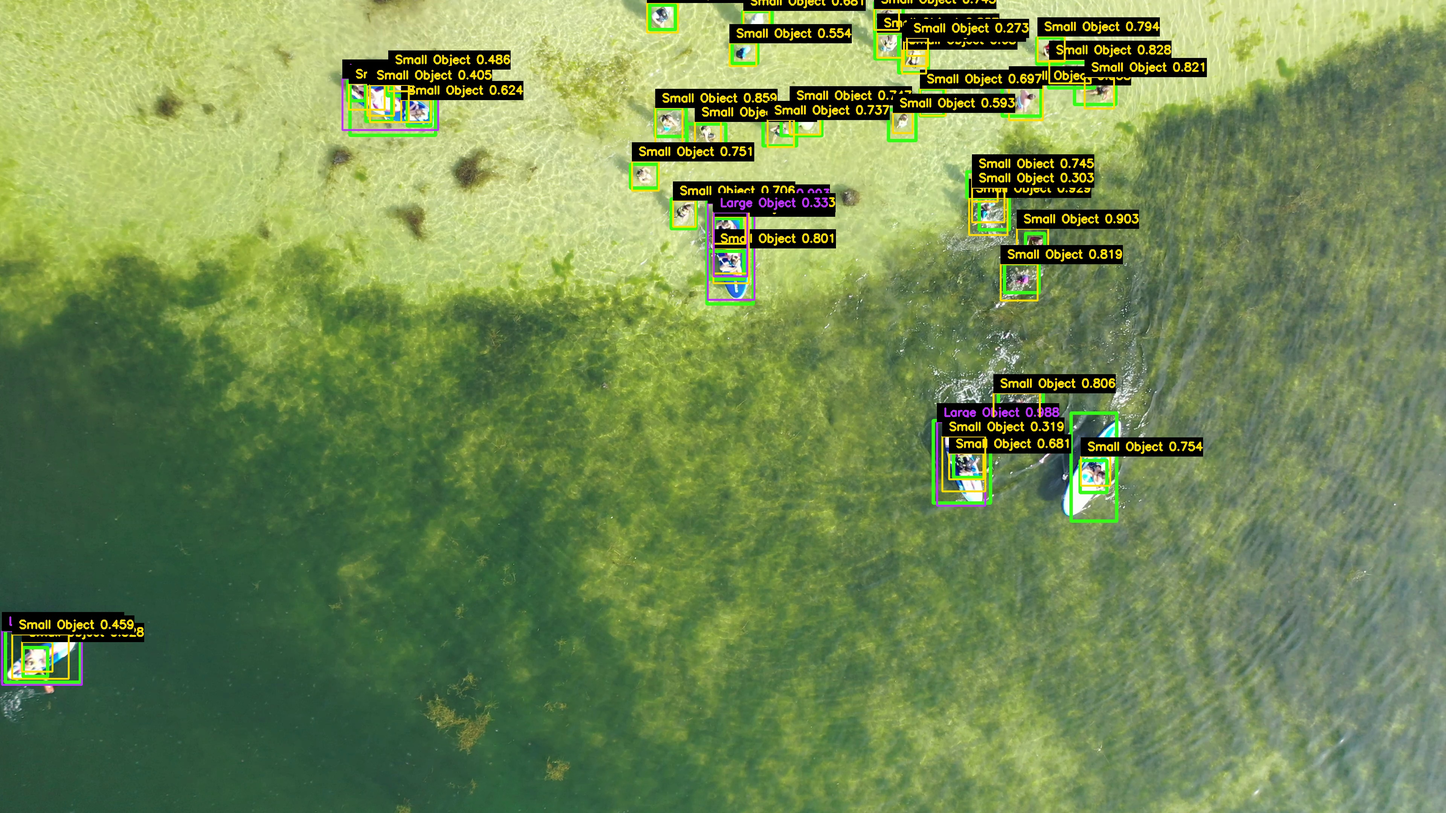
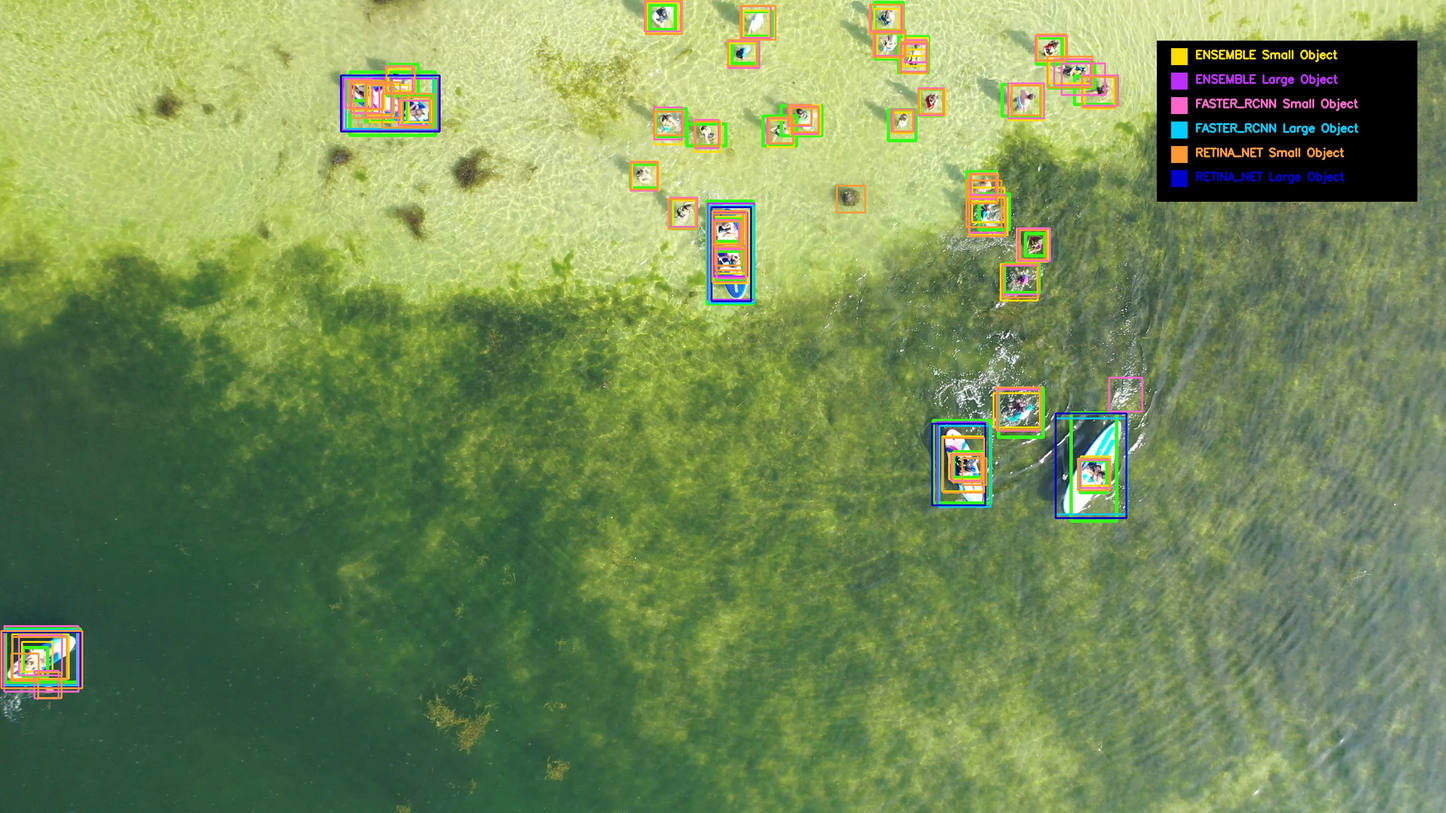
Legend improvemnts

diff --git a/detVisLib.py b/detVisLib.py
@@ -23,6 +23,7 @@ class DetVis:
         self.images = []
         self.labels = {}
         self.classes_dict = classes_dict
+        self.colors = {}
         
     def __bb_iou(self, boxA, boxB):
         xA = max(boxA[0], boxB[0])
@@ -155,6 +156,7 @@ class DetVis:
                             self.__draw_text_with_background(img['img'], obj_label, class_color, det['top_left'])
             # if legend:
             #     self.plot_legend(img)
+            self.colors[detections_name] = colors
             self.images[i] = img
     
     def plot_gt(self, color, thickness):
@@ -167,17 +169,19 @@ class DetVis:
                 img['img'] = cv2.rectangle(img['img'], top_left, bottom_right, color, thickness)
             self.images[i] = img
             
-    def plot_legend(self, img):
-        img_width, img_height = img['w'], img['h']
-        # Find longest name in class names
-        w = 0.18*img_width #len(sorted(classes_dict.values(), key=len)[-1]) * 18 + 180
-        h = 0.05*img_height * len(self.classes_dict)#50 * len(classes_dict)
-        #print(img['img'], (0.8*img_width, 0.8*img_height), (0.8*img_width + w, 0.8*img_height - h), (0,0,0), -1)
-        cv2.rectangle(img['img'], (int(0.8*img_width), int(0.05*img_height)), (int(0.8*img_width + w), int(0.05*img_height + h)), (0,0,0), -1)
-        i = 1
-        for class_item in self.classes_dict.items():
-            self.__draw_legend_element(img['img'], (int(0.8*img_width+0.01*img_width), int(0.05*img_height + 0.03*img_height * i)), 0.01*img_height, class_item[1][0],class_item[1][1])
-            i =+ 2
+    def plot_legend(self):
+        for n, img in enumerate(self.images):
+            img_width, img_height = img['w'], img['h']
+            # Find longest name in class names
+            w = 0.18*img_width #len(sorted(classes_dict.values(), key=len)[-1]) * 18 + 180
+            h = 0.033*img_height * len(self.classes_dict) * len(self.colors)#50 * len(classes_dict)
+            #print(img['img'], (0.8*img_width, 0.8*img_height), (0.8*img_width + w, 0.8*img_height - h), (0,0,0), -1)
+            cv2.rectangle(img['img'], (int(0.8*img_width), int(0.05*img_height)), (int(0.8*img_width + w), int(0.05*img_height + h)), (0,0,0), -1)
+            i = 1
+            for model_name in self.colors:
+                for class_item in self.classes_dict:
+                    self.__draw_legend_element(img['img'], (int(0.8*img_width+0.01*img_width), int(0.05*img_height + 0.03*img_height * i)), 0.01*img_height, model_name + " " + self.classes_dict[class_item], self.colors[model_name][class_item])
+                    i += 1
             
     # def __calc_image_statistics(img_stats, iou_threshold, iou, correct_class):
     #     if correct_class and iou > iou_threshold:

diff --git a/main.py b/main.py
@@ -30,9 +30,10 @@ if __name__ == "__main__":
     detVis.load_detections(TEST_COCO_ENSEMBLE_DETS_PATH, "coco", "ENSEMBLE")
     detVis.load_gt(TEST_GT_PATH, "xywh")
     detVis.plot_gt((53, 252, 23), 8)
-    detVis.plot_detections("ENSEMBLE", 4, [(255, 221, 0), (189, 46, 255)], 0.25)
-    # detVis.plot_detections("YOLO", 4, [(255, 221, 0), (189, 46, 255)], 0.25, no_labels=True)
-    # detVis.plot_detections("FASTER_RCNN", 4, [(255, 102, 204), (0, 204, 255)], 0.25, no_labels=True)
-    # detVis.plot_detections("RETINA_NET", 4, [(255, 153, 51), (0, 0, 204)], 0.25, no_labels=True)
+    detVis.plot_detections("ENSEMBLE", 4, [(255, 221, 0), (189, 46, 255)], 0.25, no_labels=True)
+    #detVis.plot_detections("YOLO", 4, [(255, 221, 0), (189, 46, 255)], 0.25, no_labels=True)
+    detVis.plot_detections("FASTER_RCNN", 4, [(255, 102, 204), (0, 204, 255)], 0.25, no_labels=True)
+    detVis.plot_detections("RETINA_NET", 4, [(255, 153, 51), (0, 0, 204)], 0.25, no_labels=True)
+    detVis.plot_legend()
     detVis.print_images()
     detVis.save_images(TEST_RESULTS_PATH, 'yolo_and_retina_frcnn_no_labels')
